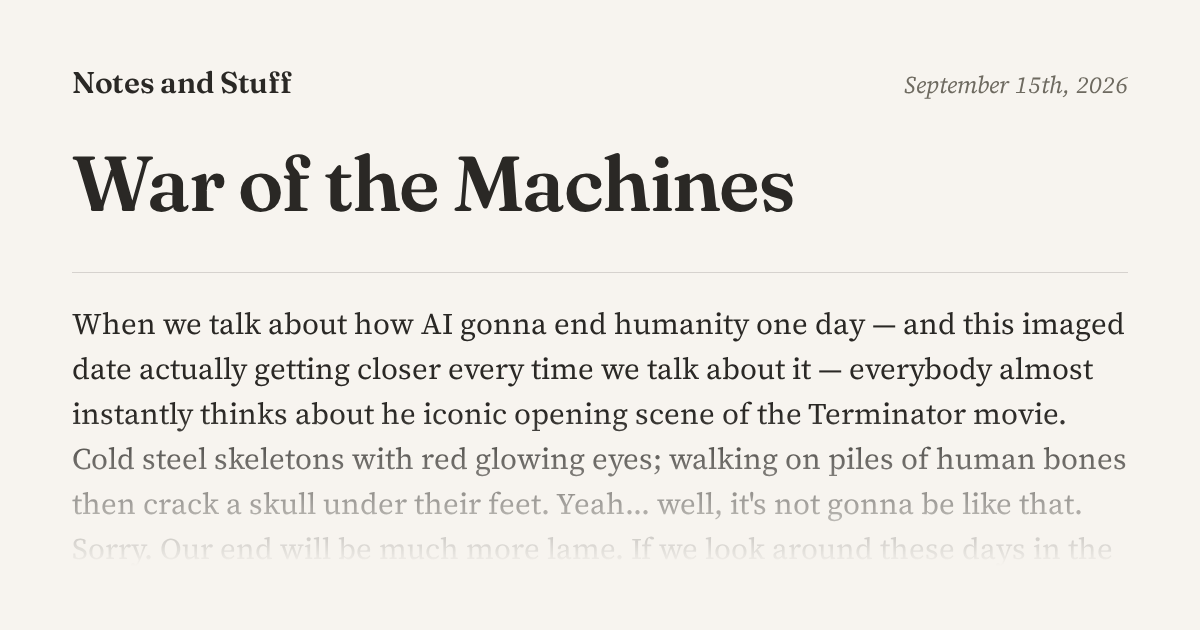
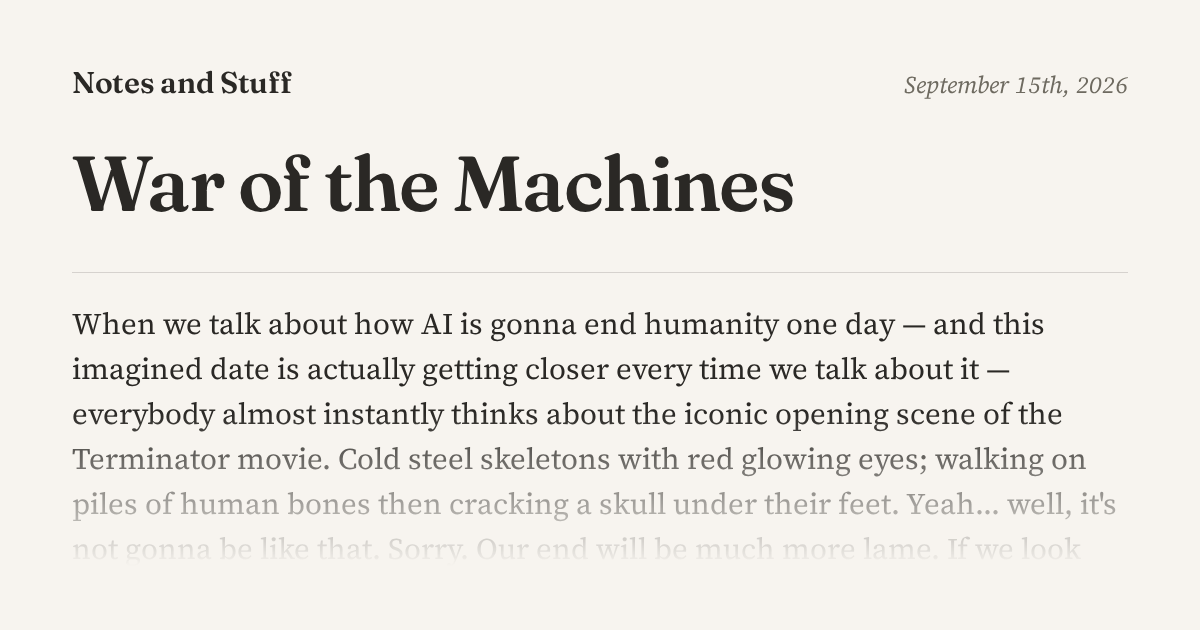
Post: fix typos and grammar slips in War of the Machines

diff --git a/_posts/2026-09-15-war-of-the-machines.md b/_posts/2026-09-15-war-of-the-machines.md
@@ -3,27 +3,27 @@ title: War of the Machines
 date: 2026-09-15 23:00:00 +0700
 ---
 
-When we talk about how AI gonna end humanity one day — _and this imaged date actually getting closer every time we talk about it_ — everybody almost instantly thinks about he iconic opening scene of the Terminator movie. 
+When we talk about how AI is gonna end humanity one day — _and this imagined date is actually getting closer every time we talk about it_ — everybody almost instantly thinks about the iconic opening scene of the Terminator movie. 
 
-Cold steel skeletons with red glowing eyes; walking on piles of human bones then crack a skull under their feet. 
+Cold steel skeletons with red glowing eyes; walking on piles of human bones then cracking a skull under their feet. 
 
 Yeah... well, it's not gonna be like that. Sorry. Our end will be much more lame. 
 
 If we look around these days in the IT job market we see the chaos already unfolding. Layoffs after layoffs, open source is suffocating under AI slop and if you actually have a SaaS idea, right after launch — _if you are lucky not earlier_ — another 20 copycats emerge from the generative hell. 
 
-The very same thing that actually brought us some kind of enhancement, giving our a chance to spend more time on human things instead of busting our ass on writing endless code or design the n+1th UI layout, the very same thing — _that is by the way still advertised as our lord and savior just for 20 bucks a month_ — is ending small and big businesses. But mostly human livelihoods.
+The very same thing that actually brought us some kind of enhancement, giving us a chance to spend more time on human things instead of busting our ass on writing endless code or designing the n+1th UI layout, the very same thing — _that is by the way still advertised as our lord and savior just for 20 bucks a month_ — is ending small and big businesses. But mostly human livelihoods.
 
-_"Claude can make that in five minutes"_ is the new _"my niece can build me a website"_, but we know that was never a working solution, except that particular niece been a literal developer or designer. 
+_"Claude can make that in five minutes"_ is the new _"my niece can build me a website"_, but we know that was never a working solution, except when that particular niece was a literal developer or designer. 
 
 Don't get me wrong. I use AI, a lot. To make my workflow faster, more focused, more outcome oriented. I can work on the parts I'm the best with and enjoy the most, and delegate the shoveling to the machine.
 
-And if we could take out greed from the equation this could solve a lot of IT work related issue, make us more efficient and produce much better products.
+And if we could take out greed from the equation this could solve a lot of IT work related issues, make us more efficient and produce much better products.
 
 > I know, I know, that's not how capitalism works... I know. But not now.
 
 Anyways, the big big but...
 
-What nobody really expected is the backlash of over-automating recruitment. [ATS systems](https://en.wikipedia.org/wiki/Applicant_tracking_system) were a thing for a long time, but mostly wonky useless piece of software that was just sitting there and helped out recruiters to forward stuff to appropriate folders. 
+What nobody really expected is the backlash of over-automating recruitment. [ATS systems](https://en.wikipedia.org/wiki/Applicant_tracking_system) were a thing for a long time, but mostly a wonky useless piece of software that was just sitting there and helped out recruiters to forward stuff to appropriate folders. 
 
 Today the reality is completely different, or if you insist _"completely fucked"_.
 
@@ -33,23 +33,23 @@ There is a weird warfare between job seekers and recruiters and on the front lin
 
 The recruiters create stupid long and fluffed job descriptions and their system filters every applicant for an exact match of all the keywords on that description. Everything.
 
-On the other side people striking back and generate custom CV for each application that contains the exact keywords triggering a good rating, so it might be forwarded to a human being. And then mass apply. To everything.
+On the other side people strike back and generate a custom CV for each application that contains the exact keywords triggering a good rating, so it might be forwarded to a human being. And then mass apply. To everything.
 
-But the _hunger games_ reached such a peak where you got hundreds of applicants for every open position. Technically spamming the shit out of the system. The ATS can't do anything really because everybody seems to be perfect fit. Dropping the bomb on the recruiters who obviously flip their desk and walk out the window.
+But the _hunger games_ reached such a peak where you got hundreds of applicants for every open position. Technically spamming the shit out of the system. The ATS can't do anything really because everybody seems to be a perfect fit. Dropping the bomb on the recruiters who obviously flip their desk and walk out the window.
 
 By the time they would actually see an actually matching candidate — _if that person for some magical reason gets endorsed by the automatic system_ — they are so burned out by the whole process they can't care anymore. 
 
-So both sides are sitting there unhappy, while all the serial-appliers flooding every channel. And yes now you can simply use your AI agent to harass recruiters via email, LinkedIn message or even phone calls.
+So both sides are sitting there unhappy, while all the serial-appliers flood every channel. And yes now you can simply use your AI agent to harass recruiters via email, LinkedIn message or even phone calls.
 
 What remains for those who just want to work and not participate in this madness? 
 
 _Personal connections, ex colleagues, friends, the "I know a guy"._ 
 
-But how when every week we read at least one major layoffs, and probably there are hundreds not making the news because not widely known companies. 
+But how when every week we read about at least one major layoff, and probably there are hundreds not making the news because not widely known companies. 
 
-People keeping a low profile, doing their job in silence, not even gonna talk to HR if not mandatory, and not going to raise the question if they could add more manpower to the project, because hey "you have unlimited chatGTP credits, no need for more people" right?
+People keeping a low profile, doing their job in silence, not even gonna talk to HR if not mandatory, and not going to raise the question if they could add more manpower to the project, because hey "you have unlimited ChatGPT credits, no need for more people" right?
 
-And at the end. Everybody just stands there with a broken system. Without professionals who could actually fix it. 
+And at the end, everybody just stands there with a broken system. Without professionals who could actually fix it. 
 
 _The machine slows down. Stops. Stagnates. Dies._
 
